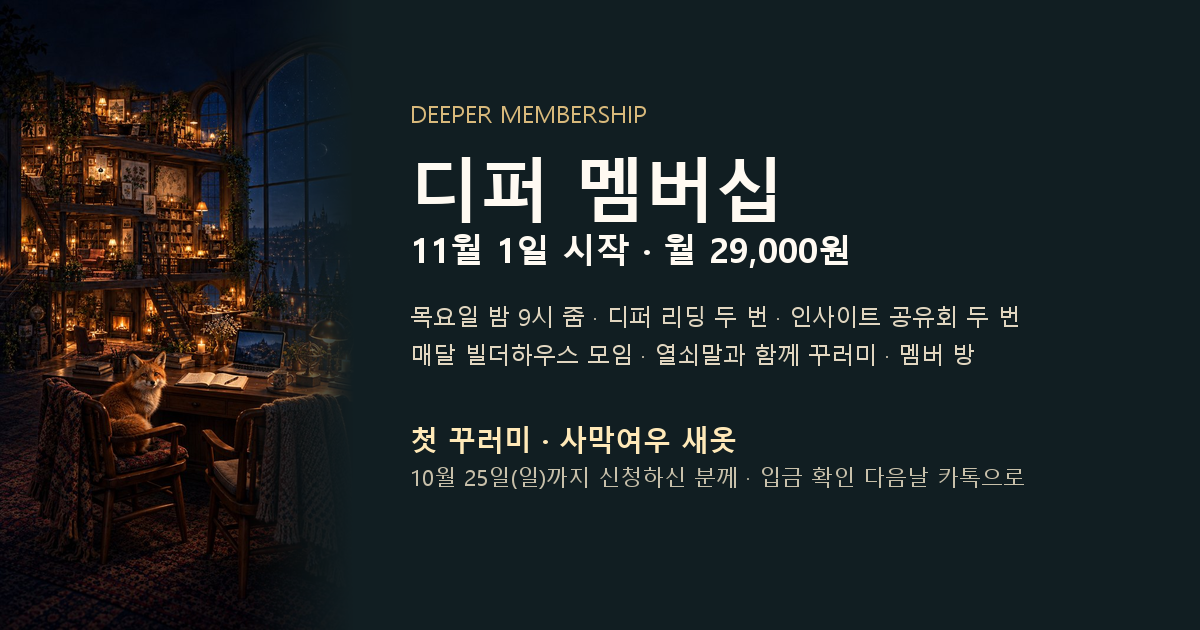
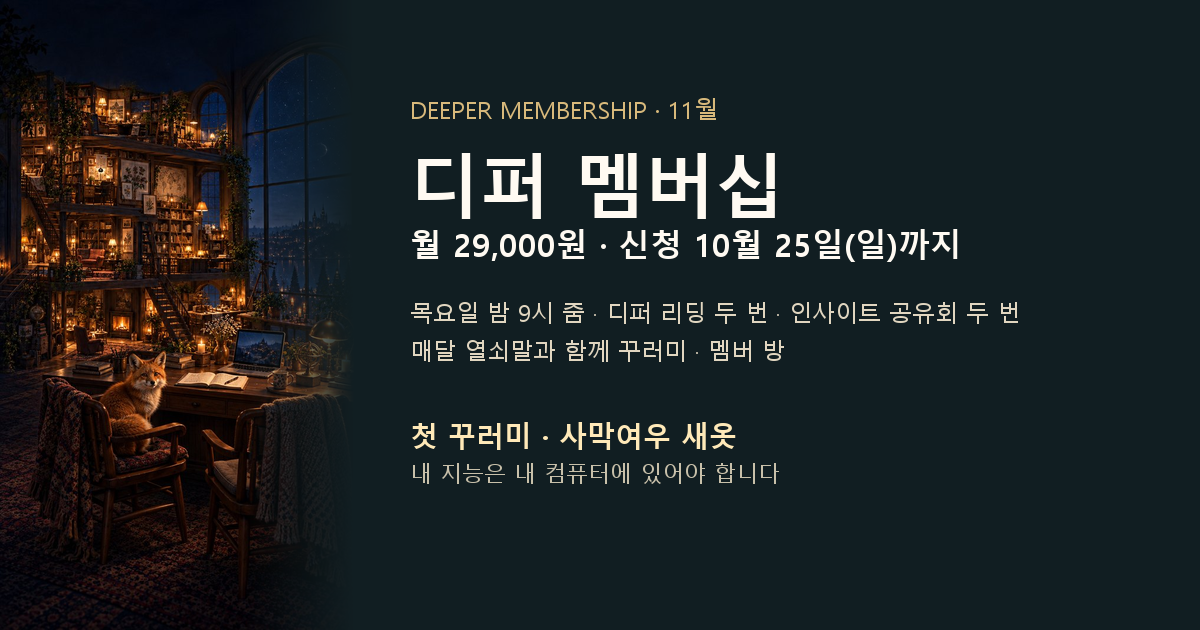
[salon] 멤버십 — 11월 타임라인(표지·공유회 타일·모션) · 마감 10/25로 · 매달 이체·빌더하우스 디폴트 삭제 · 빌더하우스 오픈 소식 + Agentic Hackathon · OG 재제작

diff --git a/invite/deeper_membership_2026-11.html b/invite/deeper_membership_2026-11.html
@@ -3,10 +3,10 @@
 <head>
 <meta charset="UTF-8">
 <meta name="viewport" content="width=device-width, initial-scale=1.0">
-<title>디퍼 멤버십 — 11월 1일 시작</title>
+<title>디퍼 멤버십 — 11월</title>
 <meta property="og:type" content="website">
-<meta property="og:title" content="디퍼 멤버십 — 11월 1일 시작">
-<meta property="og:description" content="내 지능은 내 컴퓨터에 있어야 합니다. 목요일 밤 9시 줌 · 한 달에 디퍼 리딩 두 번, 인사이트 공유회 두 번 · 매달 빌더하우스 모임 · 열쇠말과 함께 꾸러미 · 월 29,000원 · 첫 꾸러미는 사막여우 새옷(10/25까지 신청)">
+<meta property="og:title" content="디퍼 멤버십 — 11월 · 신청 10월 25일까지">
+<meta property="og:description" content="내 지능은 내 컴퓨터에 있어야 합니다. 목요일 밤 9시 줌 · 한 달에 디퍼 리딩 두 번, 인사이트 공유회 두 번 · 매달 열쇠말과 함께 꾸러미 · 월 29,000원 · 첫 꾸러미는 사막여우 새옷 · 신청 10월 25일까지">
 <meta property="og:image" content="https://clbookslower.github.io/deeper-salon/invite/og-membership-2026-11.png">
 <meta property="og:image:width" content="1200">
 <meta property="og:image:height" content="630">
@@ -86,6 +86,58 @@ html.settled .hero h1 .l span{transform:none!important;animation:none!important}
 .why__card p{margin:0;font-size:15px;color:var(--sub)}
 .rv.d3{transition-delay:.3s}
 @media (max-width:820px){.why{padding:44px 0 6px}.why__grid{grid-template-columns:1fr}}
+
+/* ---------- november timeline ---------- */
+.tl{margin:22px 0 0;padding:26px 22px 24px;border-radius:var(--radius);background:radial-gradient(120% 90% at 20% 0%,#24413c 0%,#15262a 45%,#0f1a1e 100%);color:#fff;position:relative;overflow:hidden}
+.tl::before{content:"";position:absolute;inset:0;background-image:radial-gradient(circle,rgba(255,255,255,.55) 0 1px,transparent 1.5px),radial-gradient(circle,rgba(216,185,123,.5) 0 1px,transparent 1.5px);background-size:140px 120px,210px 170px;background-position:10px 20px,70px 60px;opacity:.35;animation:twinkle 6s ease-in-out infinite;pointer-events:none}
+@keyframes twinkle{0%,100%{opacity:.25}50%{opacity:.5}}
+.tl__head{position:relative;margin-bottom:18px}
+.tl__eyebrow{display:block;font-size:11px;letter-spacing:.24em;color:var(--gold-2)}
+.tl__head h3{margin:6px 0 0;font-family:'Noto Serif KR',serif;font-weight:600;font-size:19px;letter-spacing:.02em}
+.tl__track{position:relative;display:grid;grid-template-columns:repeat(4,1fr);gap:14px;padding-top:18px}
+.tl__line{position:absolute;left:4%;right:4%;top:24px;height:2px;background:linear-gradient(90deg,transparent,rgba(216,185,123,.75),rgba(216,185,123,.75),transparent);transform:scaleX(0);transform-origin:left;transition:transform 1.4s cubic-bezier(.2,.7,.2,1) .2s}
+.in .tl__line{transform:scaleX(1)}
+.tl__item{position:relative;text-align:center;opacity:0;transform:translateY(16px);transition:opacity .8s cubic-bezier(.2,.7,.2,1),transform .8s cubic-bezier(.2,.7,.2,1);transition-delay:calc(.35s + var(--i)*.22s)}
+.in .tl__item{opacity:1;transform:none}
+.tl__dot{position:absolute;left:50%;top:-6px;width:12px;height:12px;margin-left:-6px;border-radius:50%;background:#ffe9b8;box-shadow:0 0 0 4px rgba(216,185,123,.25),0 0 14px rgba(255,233,184,.9);animation:pulse2 2.8s ease-in-out infinite;animation-delay:calc(var(--i)*.4s)}
+@keyframes pulse2{0%,100%{box-shadow:0 0 0 4px rgba(216,185,123,.25),0 0 14px rgba(255,233,184,.9)}50%{box-shadow:0 0 0 9px rgba(216,185,123,.08),0 0 22px rgba(255,233,184,1)}}
+.tl__date{margin:16px 0 10px;font-family:'Noto Serif KR',serif;font-size:16px;color:var(--gold-2);letter-spacing:.02em}
+.tl__date small{display:block;font-size:11px;letter-spacing:.2em;color:rgba(255,255,255,.55);font-family:'Noto Sans KR',sans-serif}
+.tl__cover{position:relative;width:118px;margin:0 auto;border-radius:8px;overflow:hidden;box-shadow:0 18px 36px rgba(0,0,0,.45),0 2px 0 rgba(255,255,255,.15) inset;transform:perspective(600px) rotateY(-10deg) rotateX(4deg);transition:transform .6s cubic-bezier(.2,.7,.2,1);animation:floaty 5s ease-in-out infinite;animation-delay:calc(var(--i)*.7s)}
+.tl__item:hover .tl__cover{transform:perspective(600px) rotateY(0) rotateX(0) scale(1.04)}
+@keyframes floaty{0%,100%{translate:0 0}50%{translate:0 -6px}}
+.tl__cover img{width:100%;height:auto;display:block}
+.tl__shine{position:absolute;inset:0;background:linear-gradient(115deg,transparent 35%,rgba(255,255,255,.35) 50%,transparent 65%);transform:translateX(-120%);animation:shine 4.5s ease-in-out infinite;animation-delay:calc(1s + var(--i)*.6s)}
+@keyframes shine{0%,55%{transform:translateX(-120%)}100%{transform:translateX(120%)}}
+.tl__tile{position:relative;width:118px;aspect-ratio:3/4;margin:0 auto;border-radius:8px;overflow:hidden;box-shadow:0 18px 36px rgba(0,0,0,.45);transform:perspective(600px) rotateY(10deg) rotateX(4deg);transition:transform .6s cubic-bezier(.2,.7,.2,1);animation:floaty 5s ease-in-out infinite;animation-delay:calc(var(--i)*.7s)}
+.tl__item:hover .tl__tile{transform:perspective(600px) rotateY(0) rotateX(0) scale(1.04)}
+.tl__tile img{position:absolute;inset:0;width:100%;height:100%;object-fit:cover;object-position:15% 50%;filter:saturate(1.1)}
+.tl__tileveil{position:absolute;inset:0;background:linear-gradient(180deg,rgba(15,26,30,.1),rgba(15,26,30,.8))}
+.tl__tiletxt{position:absolute;left:0;right:0;bottom:10px;padding:0 8px;font-size:8.5px;letter-spacing:.18em;color:var(--gold-2)}
+.tl__tiletxt b{display:block;margin-top:3px;font-family:'Noto Serif KR',serif;font-size:13px;letter-spacing:0;color:#fff;font-weight:600}
+.tl__txt{margin-top:14px;font-size:13.5px;line-height:1.5}
+.tl__kind{display:block;font-size:11px;letter-spacing:.14em;color:var(--gold-2)}
+.tl__txt b{display:block;margin-top:4px;font-family:'Noto Serif KR',serif;font-size:15.5px;font-weight:600}
+.tl__txt > span:last-child{display:block;color:rgba(255,255,255,.7);font-size:12.5px}
+html.settled .tl__line{transform:scaleX(1)!important}html.settled .tl__item{opacity:1!important;transform:none!important}
+@media (max-width:820px){
+  .tl{padding:22px 16px 20px}
+  .tl__track{grid-template-columns:1fr 1fr;gap:18px 12px;padding-top:0}
+  .tl__line{display:none}
+  .tl__dot{position:static;display:inline-block;margin:0 0 -2px 0}
+  .tl__date{margin:6px 0 8px}
+}
+
+.hack h3{margin:0 0 8px;font-family:'Noto Serif KR',serif;font-weight:600;font-size:18px;line-height:1.4}
+.hack > p{font-size:14.5px;color:var(--sub);margin:0 0 12px}
+.hack__prog{margin:12px 0 10px;padding:14px 16px;border-radius:12px;background:linear-gradient(135deg,#1f4d44,#2f6b5f);color:#fff;position:relative;overflow:hidden}
+.hack__prog::after{content:"";position:absolute;right:-30px;top:-30px;width:140px;height:140px;border-radius:50%;background:radial-gradient(circle,rgba(216,185,123,.35),transparent 65%);animation:breathe 6s ease-in-out infinite}
+.hack__tag{display:inline-block;font-size:10.5px;letter-spacing:.22em;color:var(--gold-2);margin-bottom:4px}
+.hack__prog h4{margin:0 0 6px;font-family:'Noto Serif KR',serif;font-weight:600;font-size:19px;letter-spacing:.01em}
+.hack__prog h4 small{display:block;font-family:'Noto Sans KR',sans-serif;font-weight:400;font-size:12.5px;color:rgba(255,255,255,.75);letter-spacing:.06em;margin-top:2px}
+.hack__prog p{margin:0;font-size:14px;color:rgba(255,255,255,.9);position:relative}
+.hack__facts em{font-style:normal;margin-left:6px;padding:2px 8px;border-radius:999px;background:rgba(185,151,91,.18);color:var(--gold);font-size:11.5px;letter-spacing:.06em}
+@keyframes breathe{0%,100%{transform:scale(1);opacity:.7}50%{transform:scale(1.25);opacity:1}}
 </style>
 </head>
 <body>
@@ -93,12 +145,12 @@ html.settled .hero h1 .l span{transform:none!important;animation:none!important}
   <img class="hero__img" src="membership-2026-11-hero.jpg" alt="밤의 서재, 책상 의자에 앉은 사막여우">
   <div class="hero__veil"></div>
   <div class="hero__in">
-    <div class="eyebrow">DEEPER MEMBERSHIP · 11월 1일 시작</div>
+    <div class="eyebrow">DEEPER MEMBERSHIP · 11월</div>
     <h1><span class="l"><span>살롱을 마친 뒤에도</span></span><span class="l"><span>목요일 밤의 자리는 그대로 남습니다</span></span></h1>
-    <p class="lead">2기 디퍼님은 10월 26일에 수사의 달을, 3기 디퍼님은 10월 29일에 논리의 달을 마칩니다. 그 뒤에도 디퍼님들이 목요일 밤 9시 줌에 그대로 오실 수 있도록 11월 1일부터 디퍼 멤버십을 엽니다.</p>
+    <p class="lead">2기 디퍼님은 10월 26일에 수사의 달을, 3기 디퍼님은 10월 29일에 논리의 달을 마칩니다. 그 뒤에도 디퍼님들이 목요일 밤 9시 줌에 그대로 오실 수 있도록 디퍼 멤버십을 엽니다. 11월 멤버십 신청은 10월 25일(일)까지 받습니다.</p>
     <div class="meta">
-      <span class="chip"><b>시작</b> 11월 1일</span>
-      <span class="chip"><b>값</b> 월 29,000원 · 매달 이체</span>
+      <span class="chip"><b>마감</b> 10월 25일(일)</span>
+      <span class="chip"><b>값</b> 월 29,000원</span>
       <span class="chip"><b>자리</b> 목요일 밤 9시 · 줌</span>
     </div>
   </div>
@@ -139,40 +191,65 @@ html.settled .hero h1 .l span{transform:none!important;animation:none!important}
     <div>
       <h2 class="rv">멤버가 되시면</h2>
       <p class="sub rv d1">살롱을 마친 분도, 시즌을 쉬어 가는 분도 같은 자리에서 이어 가시면 돼요.</p>
-      <p class="rv d1">목요일 밤에 한 달 동안 디퍼 리딩 두 번과 인사이트 공유회 두 번을 함께하시고, 매달 한 번 빌더하우스 모임에도 오십니다. 멤버 방에도 계속 머무실 수 있어요. 매달 열쇠말과 함께 꾸러미를 보내 드리고, 그 꾸러미에는 최신 시스템 엔지니어링으로 설계를 담아 드리겠습니다.</p>
+      <p class="rv d1">목요일 밤에 한 달 동안 디퍼 리딩 두 번과 인사이트 공유회 두 번을 함께하시고, 멤버 방에도 계속 머무실 수 있어요. 매달 열쇠말과 함께 꾸러미를 보내 드리고, 그 꾸러미에는 최신 시스템 엔지니어링으로 설계를 담아 드리겠습니다.</p>
       <p class="rv d1">11월 새옷에는 세계 무대에서 검증된 설계를 담았습니다. Y Combinator 대표 개리 탄이 공개한 세컨브레인 설계와, 실리콘밸리 스타트업들이 쓰는 엔지니어링 스택에서 뽑은 설계 셋을 사막여우에 최적화되도록 다듬어 담았습니다. 앞으로 매달, 바깥에서 확인한 설계 한 가지를 사막여우에 맞게 옮겨 드립니다.</p>
-      <div class="sched rv d2">
-        <h3>11월 목요일 밤 9시 · 줌</h3>
-        <ul>
-          <li><span>11월 5일</span><span>디퍼 리딩 — 『오뒷세이아』 9·10권</span></li>
-          <li><span>11월 12일</span><span>인사이트 공유회</span></li>
-          <li><span>11월 19일</span><span>디퍼 리딩 — 『넥서스』 3부</span></li>
-          <li><span>11월 26일</span><span>인사이트 공유회</span></li>
-        </ul>
+            <div class="tl rv d2">
+        <div class="tl__head"><span class="tl__eyebrow">NOVEMBER · THURSDAY NIGHT 9PM · ZOOM</span><h3>11월 목요일 밤 네 번</h3></div>
+        <div class="tl__track"><span class="tl__line"></span>
+          <article class="tl__item tl__item--book" style="--i:0">
+            <span class="tl__dot"></span>
+            <div class="tl__date">11월 5일<small>목</small></div>
+            <div class="tl__cover"><img src="../calendar/cover_odyssey.jpg" alt="오뒷세이아 표지"><span class="tl__shine"></span></div>
+            <div class="tl__txt"><span class="tl__kind">디퍼 리딩</span><b>『오뒷세이아』</b><span>9·10권</span></div>
+          </article>
+          <article class="tl__item tl__item--lab" style="--i:1">
+            <span class="tl__dot"></span>
+            <div class="tl__date">11월 12일<small>목</small></div>
+            <div class="tl__tile"><img src="insight-lab-2026-10.jpg" alt="인사이트 공유회"><div class="tl__tileveil"></div><div class="tl__tiletxt">INSIGHT SHARING<b>인사이트 공유회</b></div></div>
+            <div class="tl__txt"><span class="tl__kind">인사이트 공유회</span><b>서로의 별을 봅니다</b><span>한 분 5분씩</span></div>
+          </article>
+          <article class="tl__item tl__item--book" style="--i:2">
+            <span class="tl__dot"></span>
+            <div class="tl__date">11월 19일<small>목</small></div>
+            <div class="tl__cover"><img src="../calendar/cover_nexus.jpg" alt="넥서스 표지"><span class="tl__shine"></span></div>
+            <div class="tl__txt"><span class="tl__kind">디퍼 리딩</span><b>『넥서스』</b><span>3부</span></div>
+          </article>
+          <article class="tl__item tl__item--lab" style="--i:3">
+            <span class="tl__dot"></span>
+            <div class="tl__date">11월 26일<small>목</small></div>
+            <div class="tl__tile"><img src="insight-lab-2026-10.jpg" alt="인사이트 공유회"><div class="tl__tileveil"></div><div class="tl__tiletxt">INSIGHT SHARING<b>인사이트 공유회</b></div></div>
+            <div class="tl__txt"><span class="tl__kind">인사이트 공유회</span><b>보여 준 것은 남기고</b><span>막힌 것은 물어 주세요</span></div>
+          </article>
+        </div>
       </div>
     </div>
     <aside>
       <div class="card rv d2">
-        <div class="row"><div class="k">시작</div><div class="v">11월 1일</div></div>
-        <div class="row"><div class="k">값</div><div class="v">월 29,000원<small>매달 이체 · 국민은행 640401-04-330210 이경선(클래식북스) · 매달 신청 폼을 새로 드립니다</small></div></div>
+        <div class="row"><div class="k">마감</div><div class="v">11월 멤버십 신청 10월 25일(일)까지</div></div>
+        <div class="row"><div class="k">값</div><div class="v">월 29,000원<small>국민은행 640401-04-330210 이경선(클래식북스) · 매달 신청 폼을 새로 드립니다</small></div></div>
         <div class="row"><div class="k">목요일 밤</div><div class="v">9시 줌<small>한 달에 디퍼 리딩 두 번 · 인사이트 공유회 두 번</small></div></div>
-        <div class="row"><div class="k">매달</div><div class="v">빌더하우스 모임 한 번<small>열쇠말과 함께 꾸러미 · 멤버 방</small></div></div>
+        <div class="row"><div class="k">매달</div><div class="v">열쇠말과 함께 꾸러미<small>멤버 방 · 최신 시스템 엔지니어링 설계</small></div></div>
       </div>
       <div class="gift rv d2">
         <h3>첫 꾸러미 — 사막여우 새옷</h3>
         <p>10월 25일(일)까지 신청하신 분께 사막여우 세컨브레인을 새옷으로 올려 드립니다. 입금을 확인한 다음날 선물 꾸러미 zip 파일을 카톡으로 보내 드려요. 윈도우와 맥 모두 받으실 수 있습니다.</p>
       </div>
       <div class="gift rv d2 hack">
-        <div class="eyebrow" style="font-size:11.5px">BUILDER HOUSE · HACKATHON</div>
-        <h3>빌더하우스 1박 2일 — 자율 에이전트 만들기 해커톤</h3>
-        <p class="en">Autonomous Agent Hackathon · 2 days, 1 night</p>
-        <p>내 일을 스스로 굴리는 자율 에이전트 하나를 1박 2일 동안 끝까지 만들어 돌려 봅니다. 숙식이 가능한 집에서 모입니다.</p>
+        <div class="eyebrow" style="font-size:11.5px">DEEPER BUILDER HOUSE · OPEN</div>
+        <h3>빌더하우스를 엽니다 — 포항, 디퍼의 집</h3>
+        <p>화면으로 만나던 디퍼님들이 한 집에 모여, 내 컴퓨터 안에 시스템을 세우는 자리를 엽니다. 혼자서는 늘 막히던 설치, 이번엔 곁에서 함께 합니다. 사람은 곁에, 도구는 뒤에. 밤에는 불을 피우고 둘러앉아 줌에서는 못 꺼냈던 질문을 꺼냅니다.</p>
+        <div class="hack__prog">
+          <span class="hack__tag">첫 프로그램</span>
+          <h4>Agentic Hackathon <small>자율 에이전트 빌드 · 1박 2일</small></h4>
+          <p>나를 대신해 일하는 자율 에이전트(Autonomous Agent) 하나를 1박 2일 동안 끝까지 만들어 돌려 봅니다. 내가 한 명 더 있었으면 했던 일, AI 에이전트와 나눠 보세요.</p>
+        </div>
         <ul class="hack__facts">
           <li><b>언제</b><span>11월 13일(금)~14일(토) · 11월 27일(금)~28일(토) 가운데 하나</span></li>
-          <li><b>어디</b><span>포항 빌더하우스 · 숙식 가능</span></li>
-          <li><b>참가비</b><span>15만 원</span></li>
+          <li><b>어디</b><span>포항 빌더하우스 · 1박 2일</span></li>
+          <li><b>참가비</b><span>디퍼 멤버 15만 원 <em>멤버십 혜택</em></span></li>
         </ul>
-        <p class="hack__note">신청은 멤버십 폼의 「빌더하우스 해커톤」 문항에 표시해 주시면 됩니다.</p>
+        <p class="hack__note">자세한 안내와 신청은 곧 따로 전해 드립니다.</p>
+
       </div>
     </aside>
   </section>

diff --git a/invite/deeper_offline_busan_2026-10-18.html b/invite/deeper_offline_busan_2026-10-18.html
@@ -201,6 +201,58 @@ html.settled .constel .st{opacity:1!important;transform:none!important;animation
 .hack__facts li:last-child{border-bottom:0}
 .hack__facts b{color:var(--gold);font-weight:500;font-size:12.5px;letter-spacing:.08em;padding-top:3px}
 .hack__note{font-size:13.5px;color:var(--sub);margin:0}
+
+/* ---------- november timeline ---------- */
+.tl{margin:22px 0 0;padding:26px 22px 24px;border-radius:var(--radius);background:radial-gradient(120% 90% at 20% 0%,#24413c 0%,#15262a 45%,#0f1a1e 100%);color:#fff;position:relative;overflow:hidden}
+.tl::before{content:"";position:absolute;inset:0;background-image:radial-gradient(circle,rgba(255,255,255,.55) 0 1px,transparent 1.5px),radial-gradient(circle,rgba(216,185,123,.5) 0 1px,transparent 1.5px);background-size:140px 120px,210px 170px;background-position:10px 20px,70px 60px;opacity:.35;animation:twinkle 6s ease-in-out infinite;pointer-events:none}
+@keyframes twinkle{0%,100%{opacity:.25}50%{opacity:.5}}
+.tl__head{position:relative;margin-bottom:18px}
+.tl__eyebrow{display:block;font-size:11px;letter-spacing:.24em;color:var(--gold-2)}
+.tl__head h3{margin:6px 0 0;font-family:'Noto Serif KR',serif;font-weight:600;font-size:19px;letter-spacing:.02em}
+.tl__track{position:relative;display:grid;grid-template-columns:repeat(4,1fr);gap:14px;padding-top:18px}
+.tl__line{position:absolute;left:4%;right:4%;top:24px;height:2px;background:linear-gradient(90deg,transparent,rgba(216,185,123,.75),rgba(216,185,123,.75),transparent);transform:scaleX(0);transform-origin:left;transition:transform 1.4s cubic-bezier(.2,.7,.2,1) .2s}
+.in .tl__line{transform:scaleX(1)}
+.tl__item{position:relative;text-align:center;opacity:0;transform:translateY(16px);transition:opacity .8s cubic-bezier(.2,.7,.2,1),transform .8s cubic-bezier(.2,.7,.2,1);transition-delay:calc(.35s + var(--i)*.22s)}
+.in .tl__item{opacity:1;transform:none}
+.tl__dot{position:absolute;left:50%;top:-6px;width:12px;height:12px;margin-left:-6px;border-radius:50%;background:#ffe9b8;box-shadow:0 0 0 4px rgba(216,185,123,.25),0 0 14px rgba(255,233,184,.9);animation:pulse2 2.8s ease-in-out infinite;animation-delay:calc(var(--i)*.4s)}
+@keyframes pulse2{0%,100%{box-shadow:0 0 0 4px rgba(216,185,123,.25),0 0 14px rgba(255,233,184,.9)}50%{box-shadow:0 0 0 9px rgba(216,185,123,.08),0 0 22px rgba(255,233,184,1)}}
+.tl__date{margin:16px 0 10px;font-family:'Noto Serif KR',serif;font-size:16px;color:var(--gold-2);letter-spacing:.02em}
+.tl__date small{display:block;font-size:11px;letter-spacing:.2em;color:rgba(255,255,255,.55);font-family:'Noto Sans KR',sans-serif}
+.tl__cover{position:relative;width:118px;margin:0 auto;border-radius:8px;overflow:hidden;box-shadow:0 18px 36px rgba(0,0,0,.45),0 2px 0 rgba(255,255,255,.15) inset;transform:perspective(600px) rotateY(-10deg) rotateX(4deg);transition:transform .6s cubic-bezier(.2,.7,.2,1);animation:floaty 5s ease-in-out infinite;animation-delay:calc(var(--i)*.7s)}
+.tl__item:hover .tl__cover{transform:perspective(600px) rotateY(0) rotateX(0) scale(1.04)}
+@keyframes floaty{0%,100%{translate:0 0}50%{translate:0 -6px}}
+.tl__cover img{width:100%;height:auto;display:block}
+.tl__shine{position:absolute;inset:0;background:linear-gradient(115deg,transparent 35%,rgba(255,255,255,.35) 50%,transparent 65%);transform:translateX(-120%);animation:shine 4.5s ease-in-out infinite;animation-delay:calc(1s + var(--i)*.6s)}
+@keyframes shine{0%,55%{transform:translateX(-120%)}100%{transform:translateX(120%)}}
+.tl__tile{position:relative;width:118px;aspect-ratio:3/4;margin:0 auto;border-radius:8px;overflow:hidden;box-shadow:0 18px 36px rgba(0,0,0,.45);transform:perspective(600px) rotateY(10deg) rotateX(4deg);transition:transform .6s cubic-bezier(.2,.7,.2,1);animation:floaty 5s ease-in-out infinite;animation-delay:calc(var(--i)*.7s)}
+.tl__item:hover .tl__tile{transform:perspective(600px) rotateY(0) rotateX(0) scale(1.04)}
+.tl__tile img{position:absolute;inset:0;width:100%;height:100%;object-fit:cover;object-position:15% 50%;filter:saturate(1.1)}
+.tl__tileveil{position:absolute;inset:0;background:linear-gradient(180deg,rgba(15,26,30,.1),rgba(15,26,30,.8))}
+.tl__tiletxt{position:absolute;left:0;right:0;bottom:10px;padding:0 8px;font-size:8.5px;letter-spacing:.18em;color:var(--gold-2)}
+.tl__tiletxt b{display:block;margin-top:3px;font-family:'Noto Serif KR',serif;font-size:13px;letter-spacing:0;color:#fff;font-weight:600}
+.tl__txt{margin-top:14px;font-size:13.5px;line-height:1.5}
+.tl__kind{display:block;font-size:11px;letter-spacing:.14em;color:var(--gold-2)}
+.tl__txt b{display:block;margin-top:4px;font-family:'Noto Serif KR',serif;font-size:15.5px;font-weight:600}
+.tl__txt > span:last-child{display:block;color:rgba(255,255,255,.7);font-size:12.5px}
+html.settled .tl__line{transform:scaleX(1)!important}html.settled .tl__item{opacity:1!important;transform:none!important}
+@media (max-width:820px){
+  .tl{padding:22px 16px 20px}
+  .tl__track{grid-template-columns:1fr 1fr;gap:18px 12px;padding-top:0}
+  .tl__line{display:none}
+  .tl__dot{position:static;display:inline-block;margin:0 0 -2px 0}
+  .tl__date{margin:6px 0 8px}
+}
+
+.hack h3{margin:0 0 8px;font-family:'Noto Serif KR',serif;font-weight:600;font-size:18px;line-height:1.4}
+.hack > p{font-size:14.5px;color:var(--sub);margin:0 0 12px}
+.hack__prog{margin:12px 0 10px;padding:14px 16px;border-radius:12px;background:linear-gradient(135deg,#1f4d44,#2f6b5f);color:#fff;position:relative;overflow:hidden}
+.hack__prog::after{content:"";position:absolute;right:-30px;top:-30px;width:140px;height:140px;border-radius:50%;background:radial-gradient(circle,rgba(216,185,123,.35),transparent 65%);animation:breathe 6s ease-in-out infinite}
+.hack__tag{display:inline-block;font-size:10.5px;letter-spacing:.22em;color:var(--gold-2);margin-bottom:4px}
+.hack__prog h4{margin:0 0 6px;font-family:'Noto Serif KR',serif;font-weight:600;font-size:19px;letter-spacing:.01em}
+.hack__prog h4 small{display:block;font-family:'Noto Sans KR',sans-serif;font-weight:400;font-size:12.5px;color:rgba(255,255,255,.75);letter-spacing:.06em;margin-top:2px}
+.hack__prog p{margin:0;font-size:14px;color:rgba(255,255,255,.9);position:relative}
+.hack__facts em{font-style:normal;margin-left:6px;padding:2px 8px;border-radius:999px;background:rgba(185,151,91,.18);color:var(--gold);font-size:11.5px;letter-spacing:.06em}
+@keyframes breathe{0%,100%{transform:scale(1);opacity:.7}50%{transform:scale(1.25);opacity:1}}
 </style>
 </head>
 <body>
@@ -273,45 +325,70 @@ html.settled .constel .st{opacity:1!important;transform:none!important;animation
   <section class="mem">
     <div class="mem__in">
       <div class="mem__head rv">
-        <div class="eyebrow">DEEPER MEMBERSHIP · 11월 시작</div>
-        <h2>디퍼 멤버십 11월 시작</h2>
+        <div class="eyebrow">DEEPER MEMBERSHIP · 11월</div>
+        <h2>디퍼 멤버십 11월 신청</h2>
         <p class="sub">살롱을 마친 뒤에도 목요일 밤의 자리는 그대로 남습니다.</p>
       </div>
       <div class="mem__grid">
         <div class="mem__body rv d1">
           <p><b>내 지능은 내 컴퓨터에 있어야 합니다.</b> 디퍼님이 석 달 동안 읽고, 쓰고, 판단한 것은 전부 사막여우 안에 남아 있습니다. 챗GPT는 모두의 것이지만, 사막여우는 디퍼님 한 사람의 것이에요. 멤버십은 그 지능을 계속 키우는 자리입니다. 새 모델이 나올수록 시스템도 그에 맞춰 다시 손봐야 하고, 그 손이 멤버십입니다.</p>
-          <p>2기 디퍼님은 10월 26일에 수사의 달을, 3기 디퍼님은 10월 29일에 논리의 달을 마칩니다. 그 뒤에도 디퍼님들이 목요일 밤 9시 줌에 그대로 오실 수 있도록 11월 1일부터 디퍼 멤버십을 엽니다. 살롱을 마친 분도, 시즌을 쉬어 가는 분도 같은 자리에서 이어 가시면 돼요.</p>
-          <p>멤버가 되시면 목요일 밤에 한 달 동안 디퍼 리딩 두 번과 인사이트 공유회 두 번을 함께하시고, 매달 한 번 빌더하우스 모임에도 오십니다. 멤버 방에도 계속 머무실 수 있어요. 매달 열쇠말과 함께 꾸러미를 보내 드리고, 그 꾸러미에는 최신 시스템 엔지니어링으로 설계를 담아 드리겠습니다.</p>
+          <p>2기 디퍼님은 10월 26일에 수사의 달을, 3기 디퍼님은 10월 29일에 논리의 달을 마칩니다. 그 뒤에도 디퍼님들이 목요일 밤 9시 줌에 그대로 오실 수 있도록 디퍼 멤버십을 엽니다. 11월 멤버십 신청은 10월 25일(일)까지 받습니다. 살롱을 마친 분도, 시즌을 쉬어 가는 분도 같은 자리에서 이어 가시면 돼요.</p>
+          <p>멤버가 되시면 목요일 밤에 한 달 동안 디퍼 리딩 두 번과 인사이트 공유회 두 번을 함께하시고, 멤버 방에도 계속 머무실 수 있어요. 매달 열쇠말과 함께 꾸러미를 보내 드리고, 그 꾸러미에는 최신 시스템 엔지니어링으로 설계를 담아 드리겠습니다.</p>
           <p>11월 새옷에는 세계 무대에서 검증된 설계를 담았습니다. Y Combinator 대표 개리 탄이 공개한 세컨브레인 설계와, 실리콘밸리 스타트업들이 쓰는 엔지니어링 스택에서 뽑은 설계 셋을 사막여우에 최적화되도록 다듬어 담았습니다. 앞으로 매달, 바깥에서 확인한 설계 한 가지를 사막여우에 맞게 옮겨 드립니다.</p>
-          <div class="sched">
-            <h3>11월 목요일 밤 9시 · 줌</h3>
-            <ul>
-              <li><span>11월 5일</span><span>디퍼 리딩 — 『오뒷세이아』 9·10권</span></li>
-              <li><span>11월 12일</span><span>인사이트 공유회</span></li>
-              <li><span>11월 19일</span><span>디퍼 리딩 — 『넥서스』 3부</span></li>
-              <li><span>11월 26일</span><span>인사이트 공유회</span></li>
-            </ul>
-          </div>
+                <div class="tl rv d2">
+        <div class="tl__head"><span class="tl__eyebrow">NOVEMBER · THURSDAY NIGHT 9PM · ZOOM</span><h3>11월 목요일 밤 네 번</h3></div>
+        <div class="tl__track"><span class="tl__line"></span>
+          <article class="tl__item tl__item--book" style="--i:0">
+            <span class="tl__dot"></span>
+            <div class="tl__date">11월 5일<small>목</small></div>
+            <div class="tl__cover"><img src="../calendar/cover_odyssey.jpg" alt="오뒷세이아 표지"><span class="tl__shine"></span></div>
+            <div class="tl__txt"><span class="tl__kind">디퍼 리딩</span><b>『오뒷세이아』</b><span>9·10권</span></div>
+          </article>
+          <article class="tl__item tl__item--lab" style="--i:1">
+            <span class="tl__dot"></span>
+            <div class="tl__date">11월 12일<small>목</small></div>
+            <div class="tl__tile"><img src="insight-lab-2026-10.jpg" alt="인사이트 공유회"><div class="tl__tileveil"></div><div class="tl__tiletxt">INSIGHT SHARING<b>인사이트 공유회</b></div></div>
+            <div class="tl__txt"><span class="tl__kind">인사이트 공유회</span><b>서로의 별을 봅니다</b><span>한 분 5분씩</span></div>
+          </article>
+          <article class="tl__item tl__item--book" style="--i:2">
+            <span class="tl__dot"></span>
+            <div class="tl__date">11월 19일<small>목</small></div>
+            <div class="tl__cover"><img src="../calendar/cover_nexus.jpg" alt="넥서스 표지"><span class="tl__shine"></span></div>
+            <div class="tl__txt"><span class="tl__kind">디퍼 리딩</span><b>『넥서스』</b><span>3부</span></div>
+          </article>
+          <article class="tl__item tl__item--lab" style="--i:3">
+            <span class="tl__dot"></span>
+            <div class="tl__date">11월 26일<small>목</small></div>
+            <div class="tl__tile"><img src="insight-lab-2026-10.jpg" alt="인사이트 공유회"><div class="tl__tileveil"></div><div class="tl__tiletxt">INSIGHT SHARING<b>인사이트 공유회</b></div></div>
+            <div class="tl__txt"><span class="tl__kind">인사이트 공유회</span><b>보여 준 것은 남기고</b><span>막힌 것은 물어 주세요</span></div>
+          </article>
+        </div>
+      </div>
         </div>
         <aside class="rv d2">
           <ul class="facts">
-            <li><b>시작</b><span>11월 1일</span></li>
-            <li><b>값</b><span>월 29,000원 · 매달 이체<br><small style="color:var(--sub)">국민은행 640401-04-330210 이경선(클래식북스) · 매달 신청 폼을 새로 드립니다</small></span></li>
+            <li><b>마감</b><span>11월 멤버십 신청 10월 25일(일)까지</span></li>
+            <li><b>값</b><span>월 29,000원<br><small style="color:var(--sub)">국민은행 640401-04-330210 이경선(클래식북스) · 매달 신청 폼을 새로 드립니다</small></span></li>
             <li><b>목요일 밤</b><span>9시 줌 · 한 달에 디퍼 리딩 두 번, 인사이트 공유회 두 번</span></li>
-            <li><b>매달</b><span>빌더하우스 모임 한 번 · 열쇠말과 함께 꾸러미 · 멤버 방</span></li>
+            <li><b>매달</b><span>열쇠말과 함께 꾸러미 · 멤버 방</span></li>
             <li><b>첫 꾸러미</b><span>사막여우 새옷 · 10월 25일(일)까지 신청하신 분께 · 입금 확인 다음날 zip 파일을 카톡으로</span></li>
           </ul>
       <div class="gift hack" style="margin-top:16px;padding:20px 22px;border-radius:14px;border:1px solid rgba(185,151,91,.45);background:linear-gradient(180deg,#fffdf8,#fbf6ea)">
-        <div class="eyebrow" style="font-size:11.5px">BUILDER HOUSE · HACKATHON</div>
-        <h3 style="margin:0 0 4px;font-family:'Noto Serif KR',serif;font-weight:600;font-size:17px">빌더하우스 1박 2일 — 자율 에이전트 만들기 해커톤</h3>
-        <p class="en">Autonomous Agent Hackathon · 2 days, 1 night</p>
-        <p>내 일을 스스로 굴리는 자율 에이전트 하나를 1박 2일 동안 끝까지 만들어 돌려 봅니다. 숙식이 가능한 집에서 모입니다.</p>
+        <div class="eyebrow" style="font-size:11.5px">DEEPER BUILDER HOUSE · OPEN</div>
+        <h3>빌더하우스를 엽니다 — 포항, 디퍼의 집</h3>
+        <p>화면으로 만나던 디퍼님들이 한 집에 모여, 내 컴퓨터 안에 시스템을 세우는 자리를 엽니다. 혼자서는 늘 막히던 설치, 이번엔 곁에서 함께 합니다. 사람은 곁에, 도구는 뒤에. 밤에는 불을 피우고 둘러앉아 줌에서는 못 꺼냈던 질문을 꺼냅니다.</p>
+        <div class="hack__prog">
+          <span class="hack__tag">첫 프로그램</span>
+          <h4>Agentic Hackathon <small>자율 에이전트 빌드 · 1박 2일</small></h4>
+          <p>나를 대신해 일하는 자율 에이전트(Autonomous Agent) 하나를 1박 2일 동안 끝까지 만들어 돌려 봅니다. 내가 한 명 더 있었으면 했던 일, AI 에이전트와 나눠 보세요.</p>
+        </div>
         <ul class="hack__facts">
           <li><b>언제</b><span>11월 13일(금)~14일(토) · 11월 27일(금)~28일(토) 가운데 하나</span></li>
-          <li><b>어디</b><span>포항 빌더하우스 · 숙식 가능</span></li>
-          <li><b>참가비</b><span>15만 원</span></li>
+          <li><b>어디</b><span>포항 빌더하우스 · 1박 2일</span></li>
+          <li><b>참가비</b><span>디퍼 멤버 15만 원 <em>멤버십 혜택</em></span></li>
         </ul>
-        <p class="hack__note">신청은 멤버십 폼의 「빌더하우스 해커톤」 문항에 표시해 주시면 됩니다.</p>
+        <p class="hack__note">자세한 안내와 신청은 곧 따로 전해 드립니다.</p>
+
       </div>
         </aside>
       </div>
